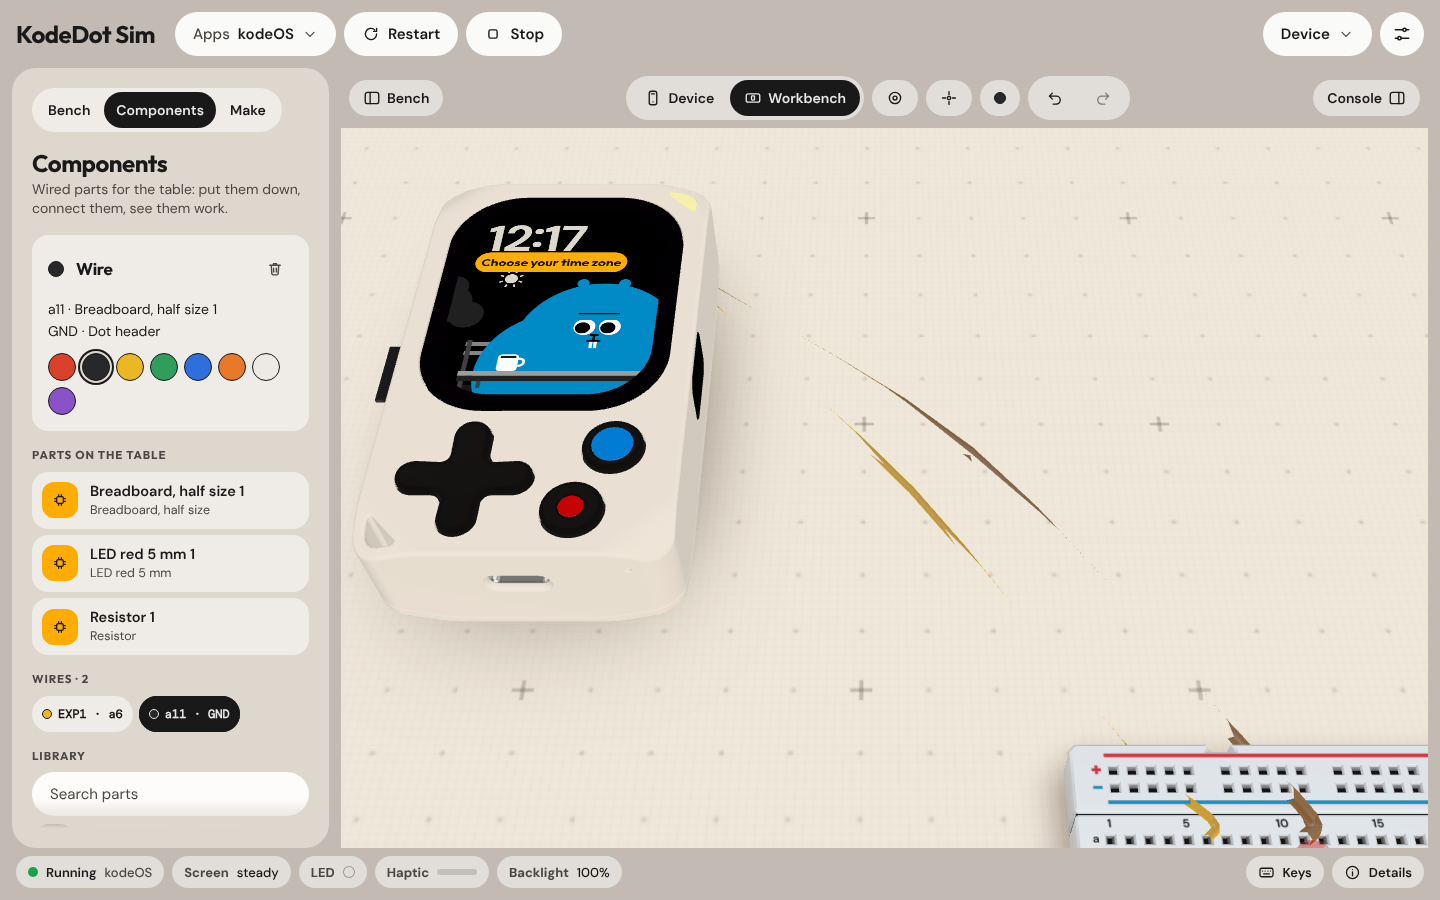
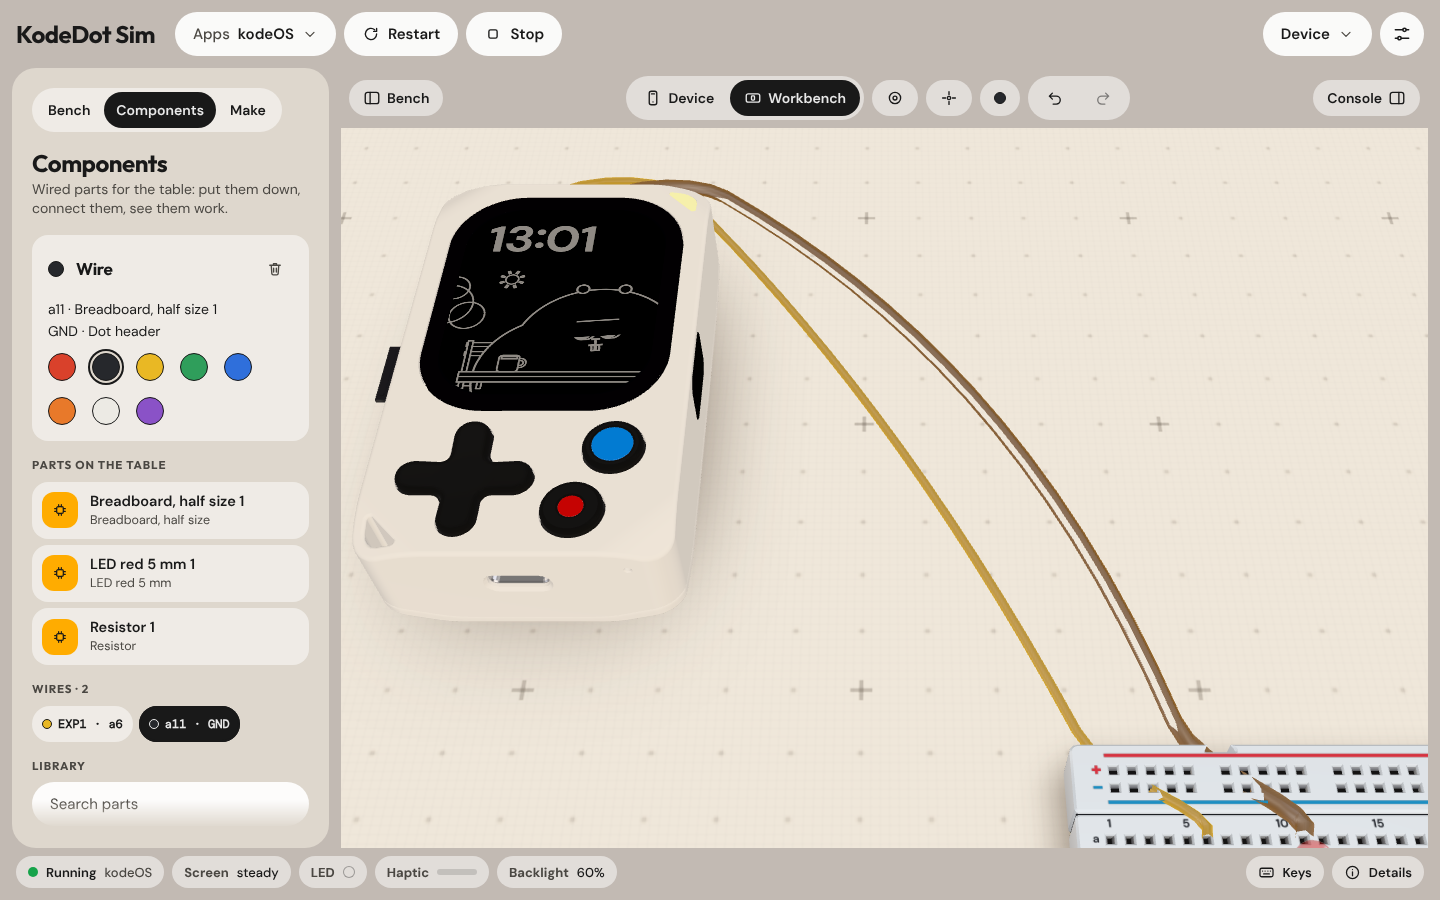
Workbench wires: drawn from the right header pin to the hole, never under the table
- A long wire was one spline through a few points and sank under the table between them: only its middle showed
  (the two strokes between the Dot and the breadboard). The line is now Bezier pieces (wirePath): out of each
  terminal the way it faces, down to the table, lying on it or on what is under it, round the Dot and tall parts.
- The header's pin 1 was on the wrong side: the Dot's shell prints the pin names beside the holes; the terminals
  follow that print (pin 1, 5 V, at the Dot's left seen from the front).
- Unit tests: a header terminal's world position is the model pin through the pose (four poses), every pin is
  where the shell prints its name, a wire's line starts and ends on its terminals and stays above the table.
- Proof: a2 retaken close, a3 from behind the header.

diff --git a/web/src/workbench/wires.ts b/web/src/workbench/wires.ts
@@ -3,11 +3,11 @@
  * where each part stands, and from the Dot's own header through the Dot's pose; wires are tubes drawn as one mesh.
  * Picking is done on the screen (the nearest terminal or wire to the pointer), so a 2.54 mm header can be hit.
  */
-import { BufferAttribute, BufferGeometry, CatmullRomCurve3, Color, DynamicDrawUsage, Group, InstancedMesh, Matrix4, Mesh, MeshBasicMaterial, MeshStandardMaterial, Object3D, SphereGeometry, Vector3, type Camera, type Quaternion } from 'three';
+import { BufferAttribute, BufferGeometry, Color, DynamicDrawUsage, Group, InstancedMesh, Matrix4, Mesh, MeshBasicMaterial, MeshStandardMaterial, Object3D, SphereGeometry, Vector3, type Camera, type Quaternion } from 'three';
 import type { BenchStore, Wire } from '../bench/store';
 import { writeTube } from '../bench3d/shape';
-import { deviceTerms, termWorld, type LocalTerm } from '../parts/geometry';
-import { rectOf, sizeOf, type Rot } from './layout';
+import { deviceTerms, termWorld, turn, type DeviceTerm, type LocalTerm } from '../parts/geometry';
+import { DOT, rectOf, sizeOf, type Rot } from './layout';
 
 /** What the wires need from the parts service (absent in tests: then only the Dot has terminals). */
 export interface WireParts {
@@ -22,14 +22,117 @@ export interface TermSpot {
   name: string;
   owner: string;
   pos: Vector3;
+  /** The way a wire leaves it (unit vector). */
+  out: Vector3;
   /** Holes of a board (not drawn as dots: the board shows them). */
   hole: boolean;
 }
 
-const SEG = 26;
+const SEG = 32;
+const END = 8; // pieces of each end's curve (terminal to table)
 const RAD = 6;
-const R_WIRE = 0.62;
+const R_WIRE = 0.75;
 const DEVICE = deviceTerms();
+
+/**
+ * Where a pin of the Dot's header is on the table, and which way a wire leaves it: the pin's place in the Dot's own
+ * frame (parts/geometry.ts) through the Dot's pose, 0.4 mm out of the top wall, leaving along the Dot's +Y.
+ */
+export function deviceTermWorld(d: DeviceTerm, dotPos: Vector3, dotQuat: Quaternion, pos = new Vector3(), out = new Vector3()): { pos: Vector3; out: Vector3 } {
+  pos.set(d.X, d.Y + 0.4, d.Z).applyQuaternion(dotQuat).add(dotPos);
+  out.set(0, 1, 0).applyQuaternion(dotQuat);
+  return { pos, out };
+}
+
+const bez = (a: number, b: number, c: number, d: number, t: number) => {
+  const u = 1 - t;
+  return u * u * u * a + 3 * u * u * t * b + 3 * u * t * t * c + t * t * t * d;
+};
+/**
+ * The line a wire follows, as SEG + 1 points: out of each terminal the way the terminal faces, down to the table in
+ * a curve that cannot dip under it (a Bezier stays inside its control points), then lying on the table, or on whatever
+ * `floorAt` says is under it, bowed sideways by `seed` so that wires side by side stay apart. Short wires arch.
+ */
+export function wirePath(a: Vector3, aOut: Vector3, b: Vector3, bOut: Vector3, seed: number, floorAt: (x: number, z: number) => number, blocked: (x: number, z: number) => boolean = () => false): Vector3[] {
+  const pts: Vector3[] = [];
+  const dx = b.x - a.x, dz = b.z - a.z;
+  const d = Math.hypot(dx, dz);
+  if (d < 30) {
+    const h = 7 + d * 0.3;
+    for (let i = 0; i <= SEG; i++) {
+      const t = i / SEG;
+      pts.push(new Vector3(bez(a.x, a.x + aOut.x * h, b.x + bOut.x * h, b.x, t), bez(a.y, a.y + aOut.y * h + 2, b.y + bOut.y * h + 2, b.y, t), bez(a.z, a.z + aOut.z * h, b.z + bOut.z * h, b.z, t)));
+    }
+    return pts;
+  }
+  const ux = dx / d, uz = dz / d, nx = -uz, nz = ux;
+  const bow = ((seed % 5) - 2) * 3 + (seed & 1 ? 1 : -1) * Math.min(16, d * 0.06);
+  const reach = Math.min(24, d * 0.3);
+  const lift = R_WIRE + 0.25;
+  // where each end comes down onto the table: toward the other end, but a pin that faces sideways is first left the
+  // way it faces, and when the other end lies behind it the wire comes down beside the body, not through it
+  const down = (p: Vector3, out: Vector3, sx: number, sz: number) => {
+    const oh = Math.hypot(out.x, out.z);
+    if (oh < 0.5) return new Vector3(p.x + sx * reach + nx * bow * 0.3, 0, p.z + sz * reach + nz * bow * 0.3);
+    const ox = out.x / oh, oz = out.z / oh;
+    let rx = sx, rz = sz;
+    if (sx * ox + sz * oz < 0.2) {
+      // sideways only (the part of the run that is square to the pin's facing)
+      const side = sx * -oz + sz * ox >= 0 ? 1 : -1;
+      rx = -oz * side;
+      rz = ox * side;
+    }
+    return new Vector3(p.x + ox * 16 + rx * reach, 0, p.z + oz * 16 + rz * reach);
+  };
+  const t1 = down(a, aOut, ux, uz);
+  const t2 = down(b, bOut, -ux, -uz);
+  t1.y = floorAt(t1.x, t1.z) + lift;
+  t2.y = floorAt(t2.x, t2.z) + lift;
+  const end = (p: Vector3, out: Vector3, t: Vector3, sx: number, sz: number, k: number) => {
+    // control points: out of the terminal, and flat along the wire's run at the touch-down height
+    const h = 9;
+    const c1 = new Vector3(p.x + out.x * h, Math.max(p.y + out.y * h + 1.5, t.y), p.z + out.z * h);
+    const c2 = new Vector3(t.x - sx * h, t.y, t.z - sz * h);
+    const u = k / END;
+    return new Vector3(bez(p.x, c1.x, c2.x, t.x, u), Math.max(bez(p.y, c1.y, c2.y, t.y, u), Math.min(p.y, t.y)), bez(p.z, c1.z, c2.z, t.z, u));
+  };
+  const mid = SEG - 2 * END;
+  // the run between: bowed a little; when it would cross something tall (the Dot, a battery), bowed further until it
+  // goes round, to the side that needs the least
+  const mx = (t1.x + t2.x) / 2, mz = (t1.z + t2.z) / 2;
+  const rl = Math.hypot(t2.x - t1.x, t2.z - t1.z) || 1;
+  const px = -(t2.z - t1.z) / rl, pz = (t2.x - t1.x) / rl;
+  const crosses = (qx: number, qz: number) => {
+    for (let i = 1; i < 12; i++) {
+      const t = i / 12, u = 1 - t;
+      if (blocked(u * u * t1.x + 2 * u * t * qx + t * t * t2.x, u * u * t1.z + 2 * u * t * qz + t * t * t2.z)) return true;
+    }
+    return false;
+  };
+  let cx = mx + px * bow * 1.4, cz = mz + pz * bow * 1.4;
+  if (crosses(cx, cz)) {
+    search: for (let k = 1; k <= 6; k++) {
+      for (const sgn of bow >= 0 ? [1, -1] : [-1, 1]) {
+        const qx = mx + px * sgn * k * 28, qz = mz + pz * sgn * k * 28;
+        if (!crosses(qx, qz)) {
+          cx = qx;
+          cz = qz;
+          break search;
+        }
+      }
+    }
+  }
+  // each end arrives at its touch-down point along the run's own direction there (toward the control point)
+  const d1 = Math.hypot(cx - t1.x, cz - t1.z) || 1, d2 = Math.hypot(cx - t2.x, cz - t2.z) || 1;
+  for (let k = 0; k < END; k++) pts.push(end(a, aOut, t1, (cx - t1.x) / d1, (cz - t1.z) / d1, k));
+  for (let i = 0; i <= mid; i++) {
+    const t = i / mid, u = 1 - t;
+    const x = u * u * t1.x + 2 * u * t * cx + t * t * t2.x, z = u * u * t1.z + 2 * u * t * cz + t * t * t2.z;
+    pts.push(new Vector3(x, i === 0 ? t1.y : i === mid ? t2.y : floorAt(x, z) + lift, z));
+  }
+  for (let k = END - 1; k >= 0; k--) pts.push(end(b, bOut, t2, (cx - t2.x) / d2, (cz - t2.z) / d2, k));
+  return pts;
+}
 
 export class Wires {
   readonly group = new Group();
@@ -103,7 +206,8 @@ export class Wires {
     this.spots = [];
     this.dotM.compose(this.dotPos, this.dotQuat, this.one);
     for (const d of DEVICE) {
-      this.spots.push({ term: d.term, name: d.name, owner: '', pos: new Vector3(d.X, d.Y + 0.4, d.Z).applyMatrix4(this.dotM), hole: false });
+      const w = deviceTermWorld(d, this.dotPos, this.dotQuat);
+      this.spots.push({ term: d.term, name: d.name, owner: '', pos: w.pos, out: w.out, hole: false });
     }
     if (this.parts) {
       for (const o of st.objects) {
@@ -116,12 +220,18 @@ export class Wires {
         const hole = terms.length > 60;
         for (const t of terms) {
           let pos: Vector3;
-          if (mount) pos = new Vector3(t.x, t.y, t.z).applyMatrix4(this.m);
-          else {
+          // a side pin is left sideways, any other upward (in the part's own frame)
+          const out = t.face === 'left' ? new Vector3(-1, 0, 0) : t.face === 'right' ? new Vector3(1, 0, 0) : t.face === 'front' ? new Vector3(0, 0, 1) : t.face === 'back' ? new Vector3(0, 0, -1) : new Vector3(0, 1, 0);
+          if (mount) {
+            pos = new Vector3(t.x, t.y, t.z).applyMatrix4(this.m);
+            out.transformDirection(this.m);
+          } else {
             const w = termWorld(t, o.pos, o.rot as Rot, lift);
             pos = new Vector3(w.x, w.y, w.z);
+            const [ox, oz] = turn(out.x, out.z, o.rot as Rot);
+            out.set(ox, out.y, oz);
           }
-          this.spots.push({ term: `${o.id}.${t.name}`, name: t.name, owner: o.name, pos, hole: hole && t.face === 'top' });
+          this.spots.push({ term: `${o.id}.${t.name}`, name: t.name, owner: o.name, pos, out, hole: hole && t.face === 'top' });
         }
       }
     }
@@ -184,31 +294,6 @@ export class Wires {
   }
 
   // ---- drawing -------------------------------------------------------------------------------------------------
-  private pathOf(a: Vector3, b: Vector3, seed: number, rects: { x0: number; x1: number; z0: number; z1: number; h: number }[]): Vector3[] {
-    const dx = b.x - a.x, dz = b.z - a.z;
-    const d = Math.hypot(dx, dz);
-    const up = 5;
-    const p1 = new Vector3(a.x, a.y + up, a.z), p5 = new Vector3(b.x, b.y + up, b.z);
-    if (d < 26) {
-      const mid = new Vector3((a.x + b.x) / 2, Math.max(a.y, b.y) + up + 3 + d * 0.22, (a.z + b.z) / 2);
-      return [a, p1, mid, p5, b];
-    }
-    // lying on the table (or on what is under it), bowed to one side so that wires side by side stay apart
-    const nx = -dz / d, nz = dx / d;
-    const bow = ((seed % 5) - 2) * 3.2 + (seed & 1 ? 1 : -1) * Math.min(18, d * 0.07);
-    const floor = (x: number, z: number) => {
-      let y = 0;
-      for (const r of rects) if (x > r.x0 && x < r.x1 && z > r.z0 && z < r.z1 && r.h > y) y = r.h;
-      return y + R_WIRE + 0.3;
-    };
-    const at = (t: number, k: number) => {
-      const x = a.x + dx * t + nx * bow * k, z = a.z + dz * t + nz * bow * k;
-      return new Vector3(x, floor(x, z), z);
-    };
-    const e = Math.min(0.3, 16 / d);
-    return [a, p1, at(e, 0.5), at(0.5, 1), at(1 - e, 0.5), p5, b];
-  }
-
   /** Rewrites the wire mesh and the marks when anything they show changed. Returns true when it drew. */
   draw(): boolean {
     const changed = this.refresh();
@@ -221,17 +306,28 @@ export class Wires {
 
     const rects = st.objects.filter((o) => o.area === 'part' && !st.mounts[o.id]).map((o) => {
       const r = rectOf(o.kind, o.pos, o.rot as Rot);
-      return { x0: r.x0 + 1, x1: r.x1 - 1, z0: r.z0 + 1, z1: r.z1 - 1, h: (this.parts?.liftOf(o.id) ?? 0) + sizeOf(o.kind, 0).h };
+      return { id: o.id, x0: r.x0 + 1, x1: r.x1 - 1, z0: r.z0 + 1, z1: r.z1 - 1, h: (this.parts?.liftOf(o.id) ?? 0) + sizeOf(o.kind, 0).h };
     });
-    const list: { id: string; a: Vector3; b: Vector3; color: string; wide: boolean }[] = [];
+    const list: { id: string; a: Vector3; ao: Vector3; b: Vector3; bo: Vector3; color: string; wide: boolean; ia: string; ib: string }[] = [];
+    const UP = new Vector3(0, 1, 0);
+    // what a wire goes round rather than over: the Dot where it lies, and tall parts
+    // (a part is not in the way of its own wires: they start on it; the Dot's leave its top wall, clear of it)
+    const tall = [{ id: '', x0: -DOT.hw - 3, x1: DOT.hw + 3, z0: -DOT.hd - 3, z1: DOT.hd + 3 }, ...rects.filter((r) => r.h > 20).map((r) => ({ id: r.id, x0: r.x0 - 3, x1: r.x1 + 3, z0: r.z0 - 3, z1: r.z1 + 3 }))];
+    const blockedFor = (ia: string, ib: string) => (x: number, z: number) => tall.some((r) => r.id !== ia && r.id !== ib && x > r.x0 && x < r.x1 && z > r.z0 && z < r.z1);
+    const floorAt = (x: number, z: number) => {
+      let y = 0;
+      for (const r of rects) if (x > r.x0 && x < r.x1 && z > r.z0 && z < r.z1 && r.h > y) y = r.h;
+      return y;
+    };
     for (const w of st.wires as readonly Wire[]) {
       const a = this.byTerm.get(w.from), b = this.byTerm.get(w.to);
       if (!a || !b) continue;
-      list.push({ id: w.id, a: a.pos, b: b.pos, color: w.color, wide: this.selected.has(w.id) || this.hoverWire === w.id });
+      list.push({ id: w.id, a: a.pos, ao: a.out, b: b.pos, bo: b.out, color: w.color, wide: this.selected.has(w.id) || this.hoverWire === w.id, ia: w.from.split('.')[0], ib: w.to.split('.')[0] });
     }
     const start = this.startTerm ? this.byTerm.get(this.startTerm) : undefined;
-    const end = this.hoverTerm && this.hoverTerm !== this.startTerm ? this.byTerm.get(this.hoverTerm)?.pos : this.loose;
-    if (start && end) list.push({ id: '', a: start.pos, b: end, color: this.color, wide: false });
+    const over = this.hoverTerm && this.hoverTerm !== this.startTerm ? this.byTerm.get(this.hoverTerm) : undefined;
+    const end = over?.pos ?? this.loose;
+    if (start && end) list.push({ id: '', a: start.pos, ao: start.out, b: end, bo: over?.out ?? UP, color: this.color, wide: false, ia: this.startTerm!.split('.')[0], ib: over ? this.hoverTerm!.split('.')[0] : '-' });
 
     const ring = RAD;
     const vPer = (SEG + 1) * ring;
@@ -268,8 +364,7 @@ export class Wires {
     list.forEach((w, n) => {
       let seed = 0;
       for (let i = 0; i < w.id.length; i++) seed = (seed * 31 + w.id.charCodeAt(i)) >>> 0;
-      const curve = new CatmullRomCurve3(this.pathOf(w.a, w.b, seed, rects), false, 'centripetal');
-      const pts = curve.getPoints(SEG);
+      const pts = wirePath(w.a, w.ao, w.b, w.bo, seed, floorAt, blockedFor(w.ia, w.ib));
       const flat = pts.map((p) => [p.x, p.y, p.z]);
       const o = n * vPer * 3;
       writeTube((pos.array as Float32Array).subarray(o, o + vPer * 3), (nor.array as Float32Array).subarray(o, o + vPer * 3), flat, w.wide ? R_WIRE * 1.7 : R_WIRE, RAD);

diff --git a/web/src/workbench/wires.test.ts b/web/src/workbench/wires.test.ts
@@ -1,0 +1,86 @@
+import { Matrix4, Quaternion, Vector3 } from 'three';
+import { describe, expect, it } from 'vitest';
+import { deviceTerms } from '../parts/geometry';
+import { DOT } from './layout';
+import { deviceTermWorld, wirePath } from './wires';
+
+/** The Dot lying on its back as the Workbench poses it: the model's +Y (top edge) to the world's -Z, its +Z (screen) up. */
+const LYING = new Quaternion().setFromAxisAngle(new Vector3(1, 0, 0), -Math.PI / 2);
+const pin = (n: number) => deviceTerms().find((t) => t.pin === n)!;
+
+describe('the Dot header terminals on the table', () => {
+  it('lying flat: pin 1 is in the top wall, left of the middle seen from above, in the row toward the screen', () => {
+    const { pos, out } = deviceTermWorld(pin(1), new Vector3(0, DOT.h / 2, 0), LYING);
+    expect(pos.x).toBeCloseTo(-4.5 * 2.54);
+    expect(pos.y).toBeCloseTo(DOT.h / 2 + 1.27); // above the middle of the Dot's thickness: toward the screen
+    expect(pos.z).toBeCloseTo(-(DOT.hd + 0.4)); // just out of the top edge, which points away from the viewer
+    expect([out.x, out.y, out.z].map((v) => Math.round(v * 1000) / 1000)).toEqual([0, 0, -1]);
+    const p20 = deviceTermWorld(pin(20), new Vector3(0, DOT.h / 2, 0), LYING).pos;
+    expect(p20.x).toBeCloseTo(4.5 * 2.54);
+    expect(p20.y).toBeCloseTo(DOT.h / 2 - 1.27);
+  });
+  it('puts every pin where the Dot\'s shell prints its name', () => {
+    // as printed on the model's top wall, read from behind with the Dot face up (so from the table's +X to its -X)
+    const screenRow = ['3V3', 'IO15', 'IO17', 'IO19', 'GND', 'IO14', 'IO12', 'IO10', 'IO8', '5V'];
+    const backRow = ['5V', 'IO16', 'IO18', 'IO20', 'IO21', 'GND', 'IO13', 'IO11', 'IO9', '3V3'];
+    const GPIO = [8, 9, 10, 11, 12, 13, 14, 21, 19, 20, 17, 18, 15, 16]; // EXP1..14 (J3_GPIO in runtime/web-adapter/bench.js)
+    const label = (name: string) => (name.startsWith('EXP') ? `IO${GPIO[Number(name.slice(3)) - 1]}` : name);
+    const at = deviceTerms().map((d) => ({ label: label(d.name), ...deviceTermWorld(d, new Vector3(0, DOT.h / 2, 0), LYING) }));
+    const row = (up: boolean) => at.filter((t) => t.pos.y > DOT.h / 2 === up).sort((p, q) => q.pos.x - p.pos.x).map((t) => t.label);
+    expect(row(true)).toEqual(screenRow);
+    expect(row(false)).toEqual(backRow);
+  });
+  it('is the model pin position through the pose, wherever the Dot is and however it is turned', () => {
+    const poses: [Vector3, Quaternion][] = [
+      [new Vector3(0, DOT.h / 2, 0), LYING.clone()],
+      [new Vector3(120, 14, -60), LYING.clone().multiply(new Quaternion().setFromAxisAngle(new Vector3(0, 0, 1), 0.9))], // turned on the table
+      [new Vector3(-40, 30, 75), LYING.clone().multiply(new Quaternion().setFromAxisAngle(new Vector3(1, 0, 0), 0.5))], // top edge lifted
+      [new Vector3(5, 22, 5), new Quaternion().setFromAxisAngle(new Vector3(0.3, 0.8, 0.5).normalize(), 2.1)],
+    ];
+    for (const [p, q] of poses) {
+      const m = new Matrix4().compose(p, q, new Vector3(1, 1, 1));
+      for (const n of [1, 2, 3, 10, 11, 18, 20]) {
+        const d = pin(n);
+        const want = new Vector3(d.X, d.Y + 0.4, d.Z).applyMatrix4(m); // the pin in the Dot model's frame, placed by the model's matrix
+        const got = deviceTermWorld(d, p, q).pos;
+        expect(got.distanceTo(want)).toBeLessThan(1e-9);
+      }
+      // the wire leaves along the Dot's own +Y, the way the header opens
+      const out = deviceTermWorld(pin(3), p, q).out;
+      expect(out.distanceTo(new Vector3(0, 1, 0).transformDirection(m))).toBeLessThan(1e-9);
+    }
+  });
+});
+
+describe('the line a wire follows', () => {
+  const flat = () => 0;
+  const up = new Vector3(0, 1, 0);
+  it('starts and ends exactly on its terminals and never goes under the table', () => {
+    const header = deviceTermWorld(pin(3), new Vector3(0, DOT.h / 2, 0), LYING);
+    const hole = new Vector3(88, 8.5, 71);
+    for (const seed of [0, 1, 7, 12345]) {
+      const pts = wirePath(header.pos, header.out, hole, up, seed, flat);
+      expect(pts).toHaveLength(33);
+      expect(pts[0].distanceTo(header.pos)).toBeLessThan(1e-9);
+      expect(pts[pts.length - 1].distanceTo(hole)).toBeLessThan(1e-9);
+      expect(Math.min(...pts.map((p) => p.y))).toBeGreaterThan(0.7); // the tube (0.75 mm) lies on the table, not in it
+      for (let i = 1; i < pts.length; i++) expect(pts[i].distanceTo(pts[i - 1])).toBeLessThan(40); // one unbroken line
+    }
+  });
+  it('leaves the Dot header away from the Dot and goes round the Dot when the other end is in front of it', () => {
+    const header = deviceTermWorld(pin(10), new Vector3(0, DOT.h / 2, 0), LYING);
+    const inDot = (x: number, z: number) => Math.abs(x) < DOT.hw + 3 && Math.abs(z) < DOT.hd + 3;
+    const pts = wirePath(header.pos, header.out, new Vector3(4, 0, 120), up, 3, flat, inDot);
+    expect(pts[2].z).toBeLessThan(header.pos.z); // first out of the top wall
+    expect(pts.slice(8, 25).some((p) => inDot(p.x, p.z))).toBe(false); // the run on the table does not cross the Dot
+  });
+  it('lies on what is under it, and a short wire is an arch', () => {
+    const a = new Vector3(0, 0, 0), b = new Vector3(100, 0, 0);
+    const over = (x: number) => (x > 40 && x < 60 ? 10 : 0);
+    const pts = wirePath(a, up, b, up, 0, (x) => over(x));
+    expect(Math.max(...pts.map((p) => p.y))).toBeGreaterThan(10);
+    const arch = wirePath(a, up, new Vector3(12, 0, 0), up, 0, flat);
+    expect(arch[16].y).toBeGreaterThan(5);
+    expect(Math.min(...arch.map((p) => p.y))).toBeGreaterThanOrEqual(0);
+  });
+});

diff --git a/web/src/parts/geometry.ts b/web/src/parts/geometry.ts
@@ -82,12 +82,18 @@ export const DEVICE_LIST: readonly { term: string; name: string; pin: number; al
   { term: 'device.V33', name: 'V33', pin: 2, alt: 19, kind: 'power_out' },
   { term: 'device.GND', name: 'GND', pin: 10, alt: 11, kind: 'ground' },
 ];
-/** J3 in the top wall: 2 x 10 at 2.54 mm, odd pins toward the screen, pin 1 on the right seen from the front (as the modules' connector says). */
+/**
+ * J3 in the top wall: 2 x 10 at 2.54 mm. The Dot's own shell prints the pinout beside the holes (seen from behind, the
+ * Dot face up: 3V3 IO15 IO17 IO19 GND IO14 IO12 IO10 IO8 5V in the row toward the screen, 5V IO16 IO18 IO20 IO21 GND IO13
+ * IO11 IO9 3V3 in the row toward the back), which is: odd pins toward the screen, pin 1 (5 V) at the Dot's left seen
+ * from the front (-X), pin 19 (3V3) at its right. A module's connector is numbered the other way round (it faces the
+ * header), so its V5 pin still meets pin 1.
+ */
 export function deviceTerms(list: readonly { term: string; name: string; pin: number; alt?: number; kind: string }[] = DEVICE_LIST, anchorY = 38.5): DeviceTerm[] {
   const out: DeviceTerm[] = [];
   const at = (t: (typeof list)[number], pin: number) => {
     const col = (pin - 1) >> 1;
-    out.push({ term: t.term, name: t.name === 'V5' ? '5V' : t.name === 'V33' ? '3V3' : t.name, pin, kind: t.kind, X: (4.5 - col) * 2.54, Y: anchorY, Z: pin & 1 ? 1.27 : -1.27 });
+    out.push({ term: t.term, name: t.name === 'V5' ? '5V' : t.name === 'V33' ? '3V3' : t.name, pin, kind: t.kind, X: (col - 4.5) * 2.54, Y: anchorY, Z: pin & 1 ? 1.27 : -1.27 });
   };
   for (const t of list) {
     at(t, t.pin);

diff --git a/docs/STATUS-web.md b/docs/STATUS-web.md
@@ -398,14 +398,17 @@ screenshots in `web/screenshots/workbench2/`). Results of the last full run are 
 Wires and terminals (`workbench/wires.ts`, `parts/geometry.ts`, store `wires`)
 - A terminal is `"<instance>.<pin>"` or `device.<name>`. Places come from the manifest (`mm`, `face`, the same mapping as the
   models) through where the part stands, how high (legs in holes) or the mount matrix; the Dot's 20 header pins are terminals in
-  its top wall and follow its pose (2 x 10, 2.54 mm, odd pins toward the screen, pin 1 on the right seen from the front: derived
-  from the modules' connector data, the maker publishes no pin 1 mark).
+  its top wall and follow its pose (2 x 10, 2.54 mm, odd pins toward the screen, pin 1 at the Dot's left seen from the front:
+  read off the pin names the Dot's own shell prints beside the holes; `wires.test.ts` checks every pin against that print).
 - The wire tool (toolbar button or W; eight colours in a strip over the table) shows every terminal as a dot (board holes are not
   dotted: the board shows them). Picking is done on the screen: the nearest terminal within 13 px, so a 2.54 mm header is hit at
   any zoom at which it can be told apart; the name and the owner show in a tooltip. Click a terminal, then another (or press on
   one and let go on the other); Esc lets the wire go; a click on a wire selects it (also from the Wires list), Delete removes it,
   its card changes the colour. Wires are in the bench store with undo, and one mesh in the scene: tubes that rise from each end
-  and lie on the table (or over the bodies under them), bowed sideways by wire so that neighbours stay apart.
+  and lie on the table (or over the bodies under them), bowed sideways by wire so that neighbours stay apart. The line is made
+  of Bezier pieces (`wirePath`): out of each terminal the way it faces (a header pin out of the Dot's top wall, a side pin
+  sideways), down to the table without dipping under it, round the Dot and tall parts. (Until 2026-11-17 it was one spline
+  through a few points, which sank under the table on long runs: only the middle of a wire from the Dot showed.)
 - Legs in holes: a part whose pins are all `bottom` legs, let go over a part with sockets on top (breadboards, an Uno's headers,
   the Maker module), is pulled so that every leg is over a hole (2.2 mm reach), stands at the holes' height and is connected: the
   service keeps one engine wire per leg (`plug_<instance>_<pin>`) for as long as the part stands there. Nothing is stored: it is
@@ -488,7 +491,7 @@ Weak or not done
   the script (the terminal was).
 - A board's EEPROM is not kept across reloads (the compiled sketch is). Wires are not yet drawn red when the engine reports a
   short (the wire's card says so). Hazards show in the part's card, not in the scene.
-- The header's pin 1 side, the coil and port anchors are estimates. Touch and a real GPU were not tried. The editor keeps the
+- The coil and port anchors are estimates. Touch and a real GPU were not tried. The editor keeps the
   light highlight colours in the dark theme.
 - The part names shown in the library ("Arduino Uno R3" ...) are the parts library's data; the models carry no marks.
 
